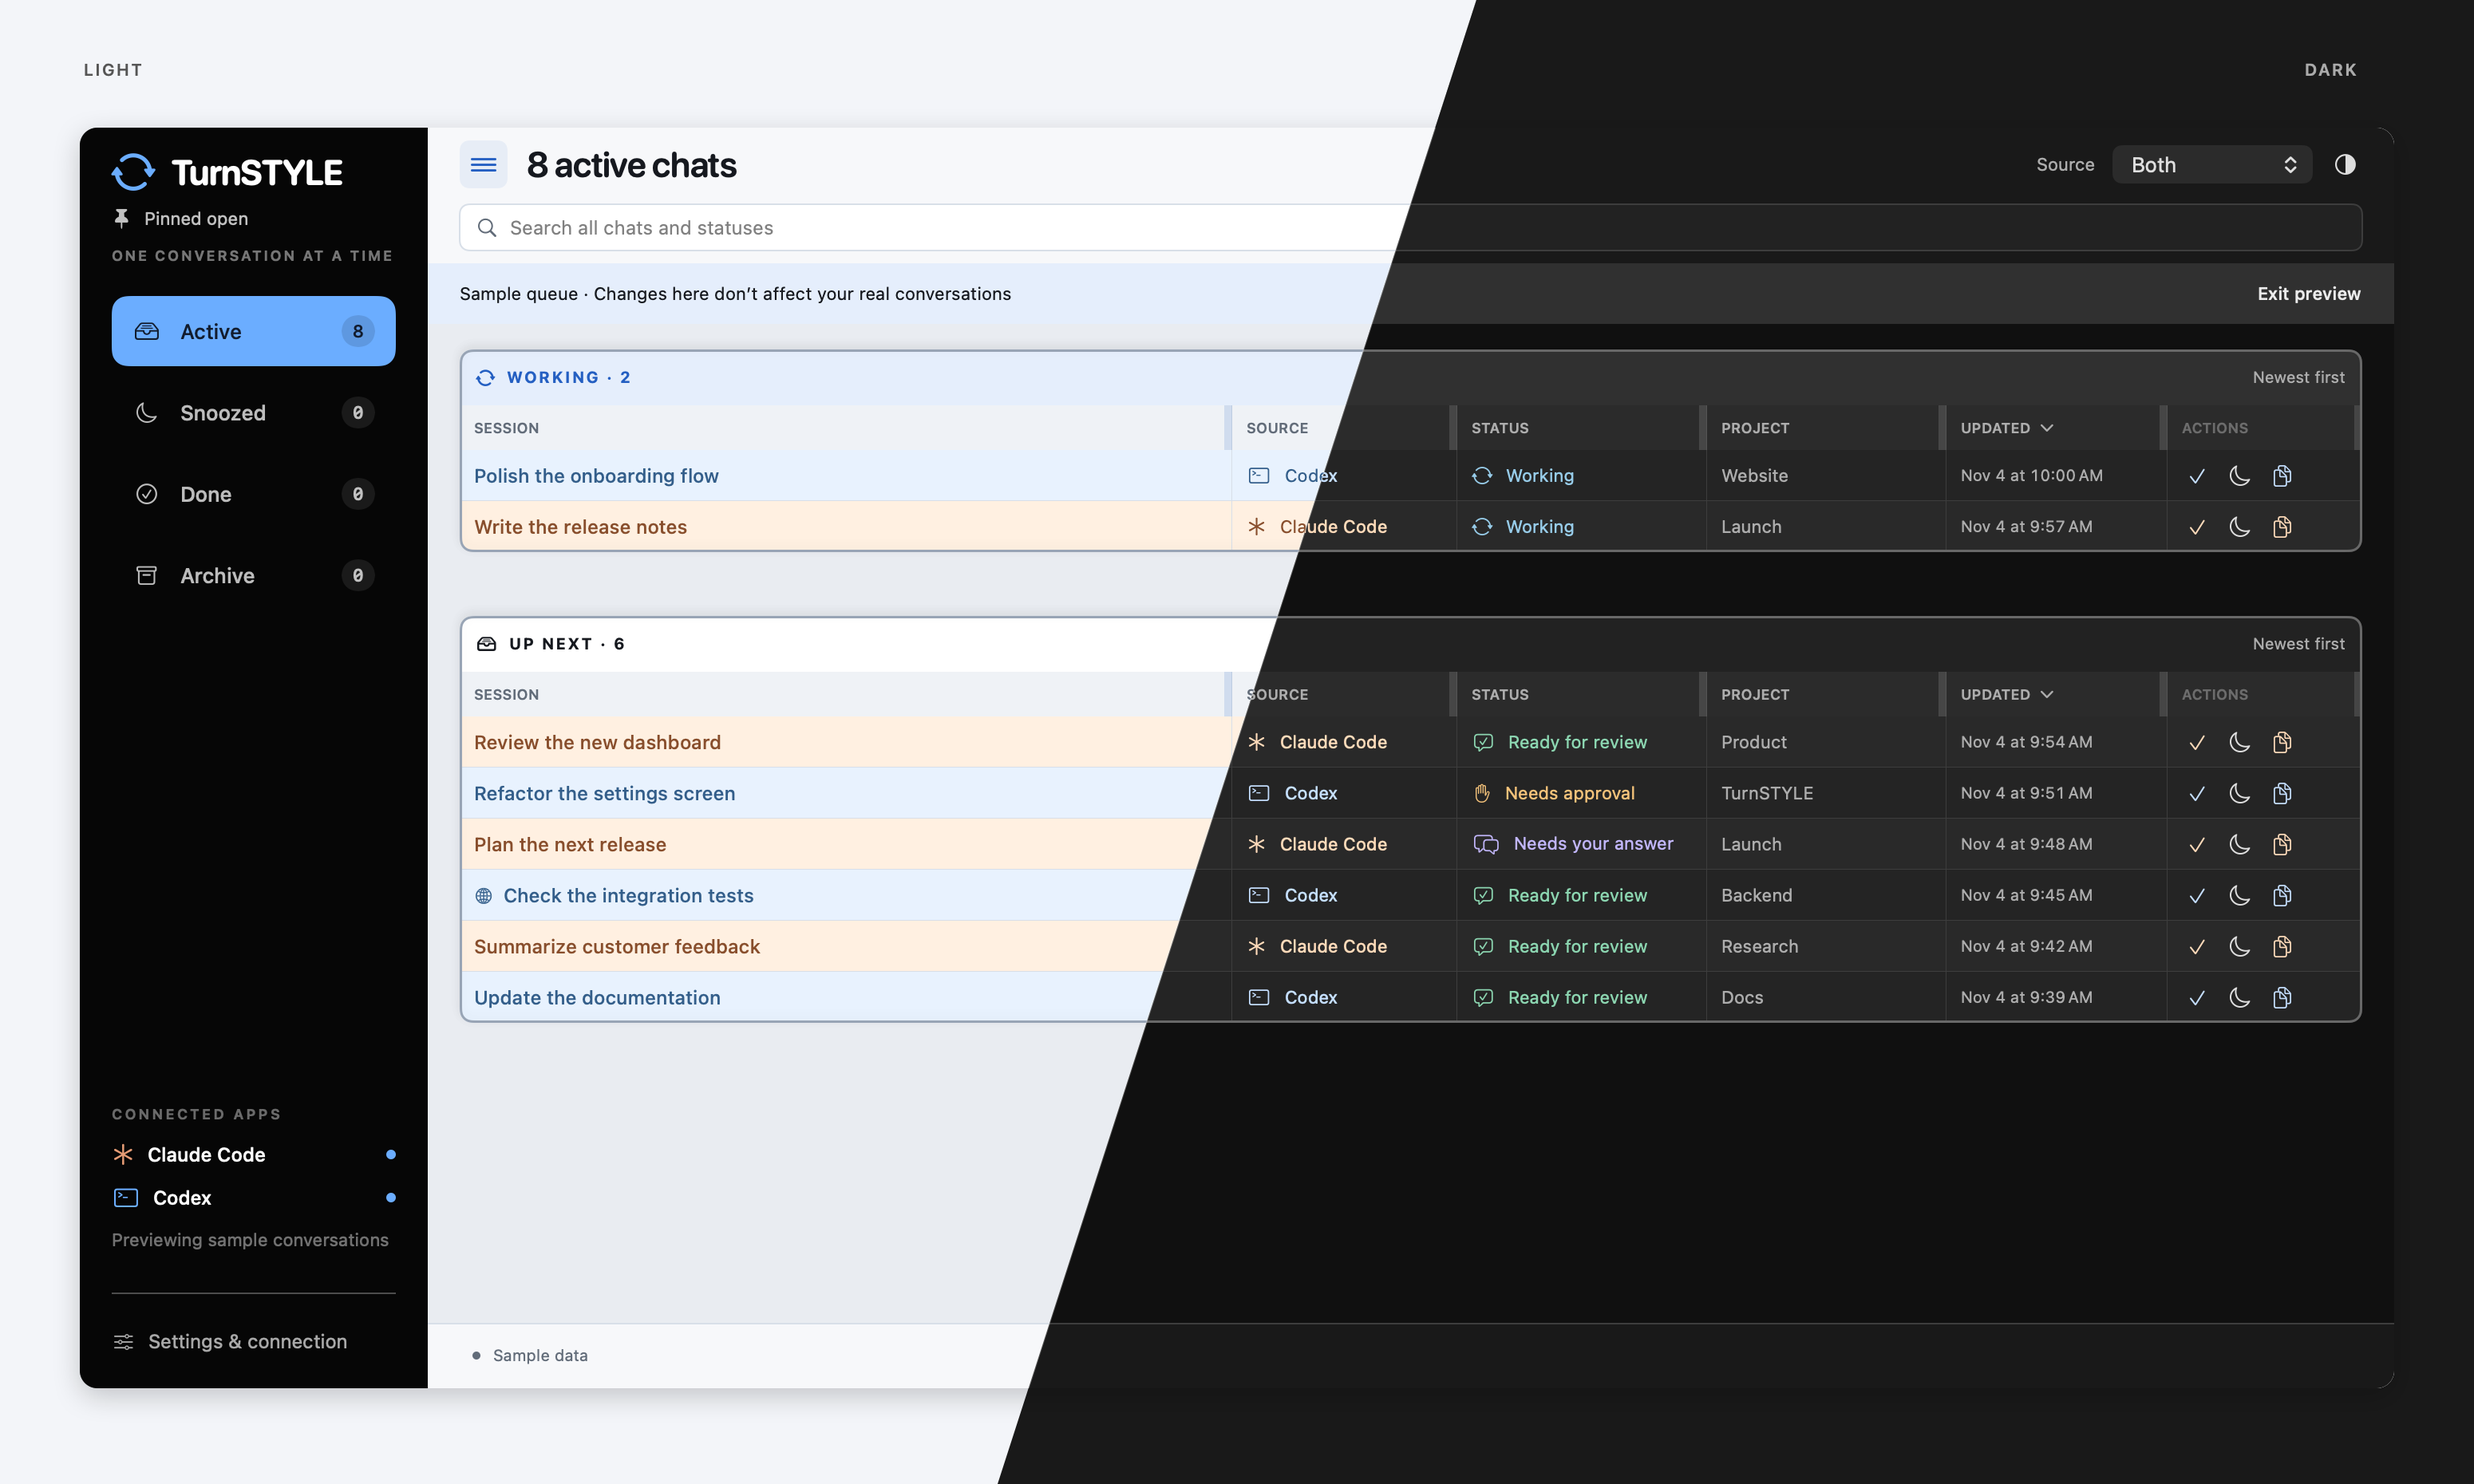
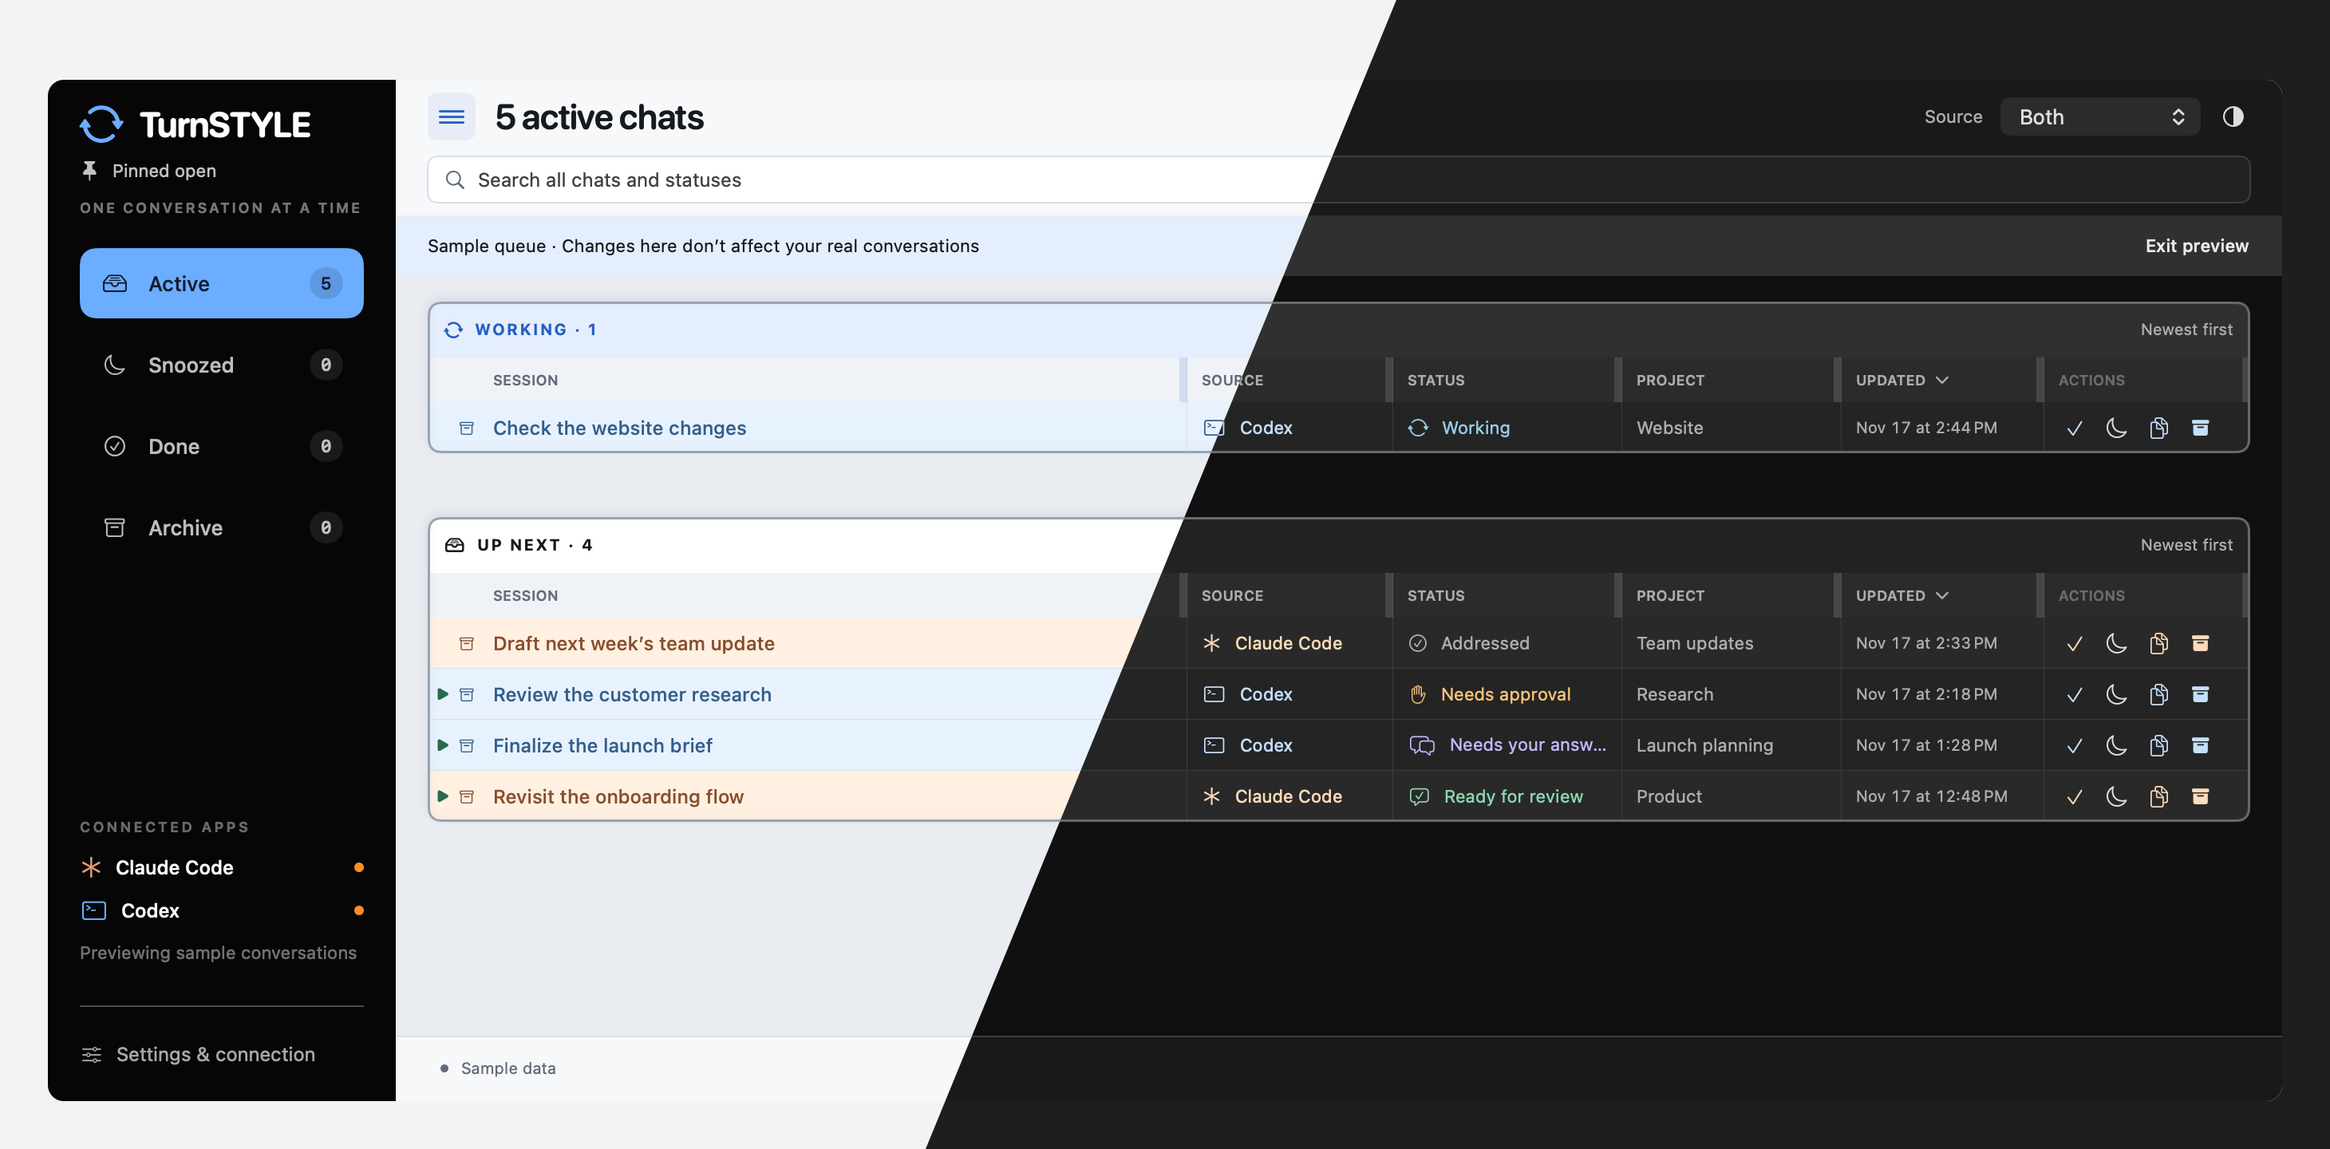
Refresh README preview and archive guidance

diff --git a/README.md b/README.md
@@ -19,6 +19,10 @@ dependencies or model API calls.
   headers. Table frames fit the window while headers/cells scroll horizontally.
 - Light, neutral black/gray Dark, or System appearance. Claude and Codex have
   distinct title colors; a globe identifies remote chats.
+- A green triangle marks chats that need your attention. Right-click a row and
+  choose **Mark as addressed** to clear the indicator and keep the chat in Active.
+- Archive from the left edge of a row, or choose **Archive until restored** in
+  Actions to keep recurring chats out of Active.
 - Snooze for 30 minutes, two hours, tomorrow at 9 AM, or indefinitely.
 - Menu bar count, Dock badge, and optional macOS reminders.
 - Optional Always on top setting, remembered across launches.
@@ -26,7 +30,13 @@ dependencies or model API calls.
 
 On the first import, the five most recently updated eligible chats stay visible;
 older ones go to TurnSTYLE's recoverable Archive. This happens once. There is no
-ongoing chat-count limit. A new local prompt restores an archived/done/snoozed chat.
+ongoing chat-count limit. A new local prompt brings an ordinarily archived, done,
+or snoozed chat back to Active.
+
+**Archive until restored** also catches new chats with the same exact title,
+provider, device, and workspace. This is useful for automations that create a
+fresh chat on each run. In Archive, **Bring back to queue** restores the selected
+chat and lets future matching runs appear in Active again.
 Background Claude SDK jobs, command-only sessions and subagents are excluded.
 TurnSTYLE's queue choices do not archive or modify chats in the provider apps.
 
